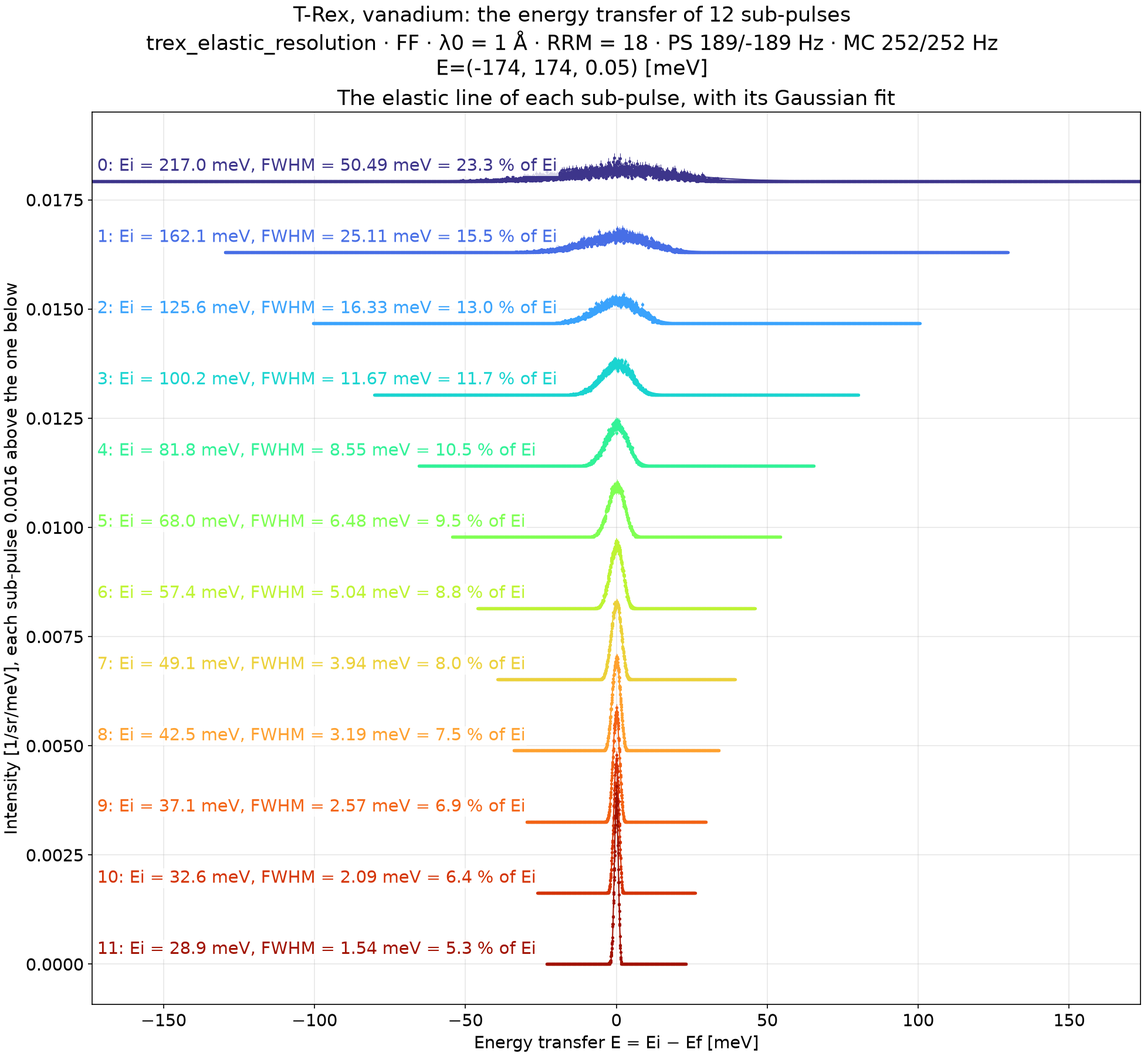
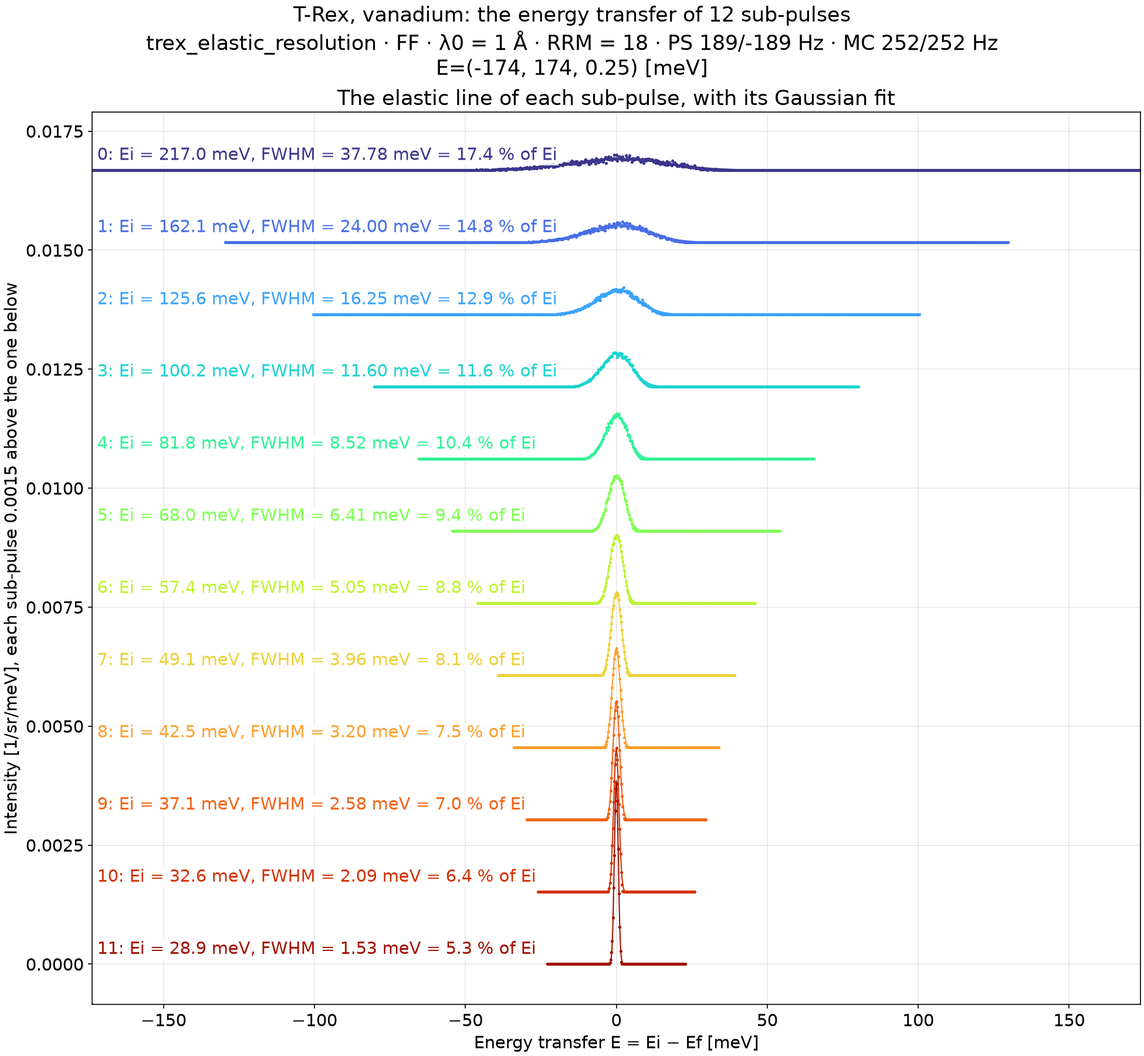
Rewrite the 1 Å elastic resolution page of T-Rex, and bin its spectra by 0.25 meV
On 0.05 meV bins, the sparse tails of the widest lines left many bins empty, which the fit
drops, so its Gaussians came out too wide: 50.5 meV in FF and 61.5 meV in FR at 217 meV,
against 37.8 and 35.8 meV on 0.25 meV bins. The page has the 12 sub-pulses at 1 Å in the four
modes, the four weaker sub-pulses the reduction leaves out, the white stripe the coverage leaves
at 90°, and the centers below Ei at the highest Ei. The 3 Å page compares with the new numbers.

diff --git a/src/mcdgs/diagnostics/trex/elastic_resolution_incoherent_short.py b/src/mcdgs/diagnostics/trex/elastic_resolution_incoherent_short.py
@@ -32,7 +32,10 @@ The reduction is that of :mod:`.diagnostics.trex.sample_runs`, as for diffractio
    sub-pulse, gives them their energy transfer, and divides each by the solid angle of its pixel
    and by the flux of its sub-pulse.
 4. :func:`.energy_spectra` sums them into a histogram of the energy transfer of each sub-pulse,
-   averaged over the solid angle of the pixels: per incident neutron, per steradian and per meV.
+   averaged over the solid angle of the pixels: per incident neutron, per steradian and per meV,
+   in bins of ``ENERGY_STEP``. The lines at 1 Å are 0.9 to 38 meV wide: on finer bins, the tails
+   of the widest are so sparse that the bins left empty, which the fit drops, widen its
+   Gaussian.
 
 :func:`.fit_elastic_lines` fits a Gaussian to the elastic line of each sub-pulse, against the
 final energy Ef, and gives its FWHM, ``FWHM_PER_SIGMA`` times its standard deviation σ.
@@ -86,6 +89,7 @@ from mcdgs.samples import vanadium
 
 NAME = "trex_elastic_resolution_incoherent_short"
 LAMBDA0 = 1.0  # Å, the central wavelength
+ENERGY_STEP = 0.25  # meV, the bin width in E of the spectra and maps: the lines are 0.9 to 38 meV
 MIN_TWO_THETA = 5.0  # deg: the pixels closer to the beam see the direct beam past the beamstop
 MODES: tuple[Mode, ...] = ("FF", "FR", "RF", "RR")  # coarse to fine; FF, first, is the reference
 # C0 to C3 from the finest resolution to the coarsest
@@ -252,8 +256,8 @@ def reduce_runs(
     events = normalized_events(binned, pulses, pixels)
     return Reduction(
         pulses,
-        energy_spectra(events, pulses, pixels.sum()),
-        q_e_maps(events, pulses, two_theta(binned), pixels),
+        energy_spectra(events, pulses, pixels.sum(), step=ENERGY_STEP),
+        q_e_maps(events, pulses, two_theta(binned), pixels, energy_step=ENERGY_STEP),
     )
 
 

diff --git a/docs/instruments/trex/elastic-resolution-incoherent-short.md b/docs/instruments/trex/elastic-resolution-incoherent-short.md
@@ -5,8 +5,8 @@
 puts a vanadium cylinder on `sample_pos` and reduces every neutron that reaches the banana
 detector to its energy transfer E = Ei − Ef. Vanadium scatters incoherently and elastically, so
 every neutron it scatters has E = 0. The width of the line it gives is the energy resolution of
-T-Rex, one value for each of the 15 sub-pulses. Anything away from the line would come from the
-instrument or the reduction, not from the sample.
+T-Rex, one value for each of the 12 sub-pulses at `lambda0` = 1 Å. Anything away from the line
+would come from the instrument or the reduction, not from the sample.
 [Elastic resolution (long wavelength)](elastic-resolution-incoherent-long.md) does the same at
 `lambda0` = 3 Å, with the bender in.
 
@@ -17,14 +17,16 @@ incident energies of [Incident energy](incident-energy.md) and the
 ## The setup
 
 `TRexElasticResolution` is `TRex` with the vanadium of `vanadium` on `sample_pos`, the beamstop
-and the banana detector. Its control parameters are the defaults, `lambda0` = 2 Å and
-`rrm` = 18, in each of the four modes of the choppers: `"FF"`, the wide slits of the
+and the banana detector. Its control parameters are `lambda0` = 1 Å and the defaults otherwise:
+`rrm` = 18, the bender out, the pulse-shaping choppers at 189 Hz and the monochromatic choppers
+at 252 Hz. It runs in each of the four modes of the choppers: `"FF"`, the wide slits of the
 pulse-shaping and monochromatic choppers, for high flux, `"RR"`, the narrow ones, for high
 resolution, and between them `"RF"`, the narrow slits of the pulse-shaping choppers with the
 wide ones of the monochromatic choppers, and `"FR"`, the other way around. All four modes have
-the same 15 sub-pulses. The choppers turn, so the beam on the sample is a train of sub-pulses. This is
-not the white beam of the `solid_angles` diagnostic, where every chopper is parked open. It has
-the [masked source](masked-source.md).
+the same 12 sub-pulses, from 0.61 to 1.68 Å, with Ei from 217 to 28.9 meV. The choppers turn, so
+the beam on the sample is a train of sub-pulses. This is not the white beam of the
+`solid_angles` diagnostic, where every chopper is parked open. It has the
+[masked source](masked-source.md).
 
 | | |
 | - | - |
@@ -51,26 +53,29 @@ As on [Diffraction](diffraction.md#two-runs-split-at-the-sample), `simulate` run
 each mode in two parts, with `run_to_sample` and `run_from_sample` of
 [`Simulation`](../../how-to/run-a-simulation.md):
 
-1. **From the source to `sample_pos`**, with 1e9 rays: about a minute and a half on 18 cores.
+1. **From the source to `sample_pos`**, with 1e9 rays: about 1.1 minutes on 18 cores.
    Its folder holds the pre-sample and beamstop monitors and the beam at `sample_pos`.
-2. **From that beam through the vanadium to the detector**: under ten seconds. 4.09 million
-   neutrons reach the detector in FF, 1.04 million in RR.
+2. **From that beam through the vanadium to the detector**: about 5 seconds. 1.49 million
+   neutrons reach the detector in FF, 0.41 million in RR.
 
-RR lets a sixth of the neutrons of FF through, 4.3 × 10⁶ n/s at the pre-sample monitor against
-2.5 × 10⁷ n/s. `reduce_runs` and `analyze` read the runs of a mode again without McStas. The
+RR lets a sixth of the neutrons of FF through, 3.1 × 10⁶ n/s at the pre-sample monitor against
+1.8 × 10⁷ n/s. `reduce_runs` and `analyze` read the runs of a mode again without McStas. The
 figures below are of FF, except in [FF and RR](#ff-and-rr) and
 [All four modes](#all-four-modes).
 
 ## The reduction
 
-1. **The sub-pulses.** `subpulse_timing`, of `sample_runs`, finds the 15 sub-pulses at the
+1. **The sub-pulses.** `subpulse_timing`, of `sample_runs`, finds the 12 sub-pulses at the
    pre-sample and beamstop monitors, with the Ei of each and the time it reaches the sample, as on
-   [Incident energy](incident-energy.md#finding-the-sub-pulses).
+   [Incident energy](incident-energy.md#finding-the-sub-pulses). It keeps the patches of the
+   monitor with at least 2 % (`MIN_FRACTION`) of the intensity of the strongest. Four more get
+   through the choppers, at 0.21, 0.32, 0.42 and 0.52 Å, with under 1 % each: see
+   [Shorter sub-pulses](#shorter-sub-pulses).
 2. **The pixels.** `read_detector`, of `sample_runs`, reads the neutrons of the banana detector,
    by pixel.
    `scattered_pixels` leaves out the pixels within 5° of the beam ($2\theta$ < 5°). Those see the
-   direct beam that passes the beamstop: 2.69 million of the 4.09 million neutrons, on 405
-   pixels. The 38,760 pixels kept cover 2.11 sr.
+   direct beam that passes the beamstop: 457,391 of the 1,485,970 neutrons in FF. The 38,760
+   pixels kept cover 2.11 sr.
 3. **The windows.** `events_to_q_and_energy` gives each pixel and sub-pulse the arrival window
    of `arrival_window`, from −0.8 Ei to 0.8 Ei, as on
    [Neutrons on sample](neutrons-on-sample.md#arrival-windows-at-the-detector). A neutron inside
@@ -78,24 +83,43 @@ figures below are of FF, except in [FF and RR](#ff-and-rr) and
    energy transfer.
 4. **The normalization.** `normalized_events` divides each neutron by the solid angle of its
    pixel and by the intensity of its sub-pulse at the pre-sample monitor.
-5. **The spectra.** `energy_spectra` sums the neutrons of each sub-pulse into 0.05 meV bins of E.
-   It weights each one by the solid angle of its pixel and divides by the 2.11 sr of all the
-   pixels. It divides each neutron by its $k_f/k_i = \sqrt{E_f/E_i}$, with the Ei of its sub-pulse,
-   as `q_e_maps` does for S(Q, E): the cross section holds that factor on top of S(Q, E), below 1
-   where the neutron loses energy and above where it gains it. Across a line as wide as 7 % of Ei
-   it runs from 0.98 to 1.02, so left in, it would lift the gain side of the line, tilt its shape
-   and pull its center towards a higher Ef. The result is S(E) averaged over the detector, per
-   neutron at the pre-sample monitor, per steradian and per meV. Each neutron of weight $w$ counts
-   with the variance $w^2$, so a bin has the error $\sqrt{\sum w^2}$.
+5. **The spectra.** `energy_spectra` sums the neutrons of each sub-pulse into bins of E of
+   0.25 meV (`ENERGY_STEP`). It weights each one by the solid angle of its pixel and divides by
+   the 2.11 sr of all the pixels. It divides each neutron by its $k_f/k_i = \sqrt{E_f/E_i}$, with
+   the Ei of its sub-pulse, as `q_e_maps` does for S(Q, E): the cross section holds that factor on
+   top of S(Q, E), below 1 where the neutron loses energy and above where it gains it. Across a
+   line as wide as 17 % of Ei it runs from 0.96 to 1.04, so left in, it would lift the gain side
+   of the line, tilt its shape and pull its center towards a higher Ef. The result is S(E)
+   averaged over the detector, per neutron at the pre-sample monitor, per steradian and per meV.
+   Each neutron of weight $w$ counts with the variance $w^2$, so a bin has the error
+   $\sqrt{\sum w^2}$.
+
+**Why 0.25 meV bins.** The lines at 1 Å are 0.9 to 38 meV wide. On the 0.05 meV bins of the other
+elastic-resolution diagnostics, the tails of the widest lines are so sparse that many bins hold
+no neutron. The fit drops the empty bins, so in the tails it sees only the bins that happen to
+hold one, which lifts the tails and widens the Gaussian. On 0.05 meV bins, the FWHM of the
+highest sub-pulse came out at 50.5 meV in FF and 61.5 meV in FR. On 0.25 meV bins it is 37.8 and
+35.8 meV, and coarser bins change it little more: 36.9 and 34.3 meV on 0.5 meV bins. Below about
+100 meV the bins make no difference. The narrowest line, 0.95 meV in RR, still spans four bins.
+
+### Shorter sub-pulses
+
+Of the 1,028,579 neutrons on the pixels kept in FF, 52,481 fall outside every window. Of these,
+52,251 arrive before the window of the first sub-pulse opens, in groups 4 ms apart, at about
+23, 19, 15 and 11 ms: the four sub-pulses at 0.52, 0.42, 0.32 and 0.21 Å that `subpulse_timing`
+leaves out. At the pre-sample monitor, those at 0.32 to 0.52 Å bring 0.09 to 0.85 % of the
+intensity of the strongest sub-pulse, the one at 0.21 Å almost nothing. The masked source spends many rays on them, so they are many neutrons of
+small weight: 0.25 % of the intensity on the detector. They are left out of the spectra and the
+maps.
 
 ## S(Q, E)
 
-![S(Q, E) of each of the 15 sub-pulses, |Q| across and E up, from the highest Ei to the lowest, normalized by the coverage of each bin, colored where the detector reaches and white elsewhere](figures/elastic-resolution-incoherent-short/trex_elastic_resolution_incoherent_short_ff_sqe.png)
+![S(Q, E) of each of the 12 sub-pulses at 1 Å, |Q| across and E up, from the highest Ei to the lowest, normalized by the coverage of each bin, colored where the detector reaches and white elsewhere](figures/elastic-resolution-incoherent-short/trex_elastic_resolution_incoherent_short_ff_sqe.png)
 
-`q_e_maps` histograms the neutrons of each sub-pulse in |Q| and E, in bins of 0.05 meV and
-0.05 Å⁻¹. Every sub-pulse has the same bins, so every map spans the same range: E from −38 to
-38 meV, the arrival window of the highest Ei, and |Q| from 0 to 11 Å⁻¹, the largest the
-detector reaches. `plot_q_e_maps` draws the 15 maps from the highest Ei to the lowest, on shared
+`q_e_maps` histograms the neutrons of each sub-pulse in |Q| and E, in bins of 0.25 meV and
+0.05 Å⁻¹. Every sub-pulse has the same bins, so every map spans the same range: E from −174 to
+174 meV, the arrival window of the highest Ei, and |Q| from 0 to 23 Å⁻¹, the largest the
+detector reaches. `plot_q_e_maps` draws the 12 maps from the highest Ei to the lowest, on shared
 axes and one linear scale in turbo.
 
 **Normalized by the coverage of each bin.** A pixel at the scattering angle $2\theta$ sees every E of
@@ -113,47 +137,45 @@ sub-pulse cannot reach it, and it is white. A bin it reaches has the color of it
 bottom of the scale if it holds no neutron. So the colored area of each map is its coverage: E
 in its arrival window, −0.8 Ei to 0.8 Ei, and |Q| between those of the smallest and the largest
 $2\theta$ of the pixels, 5° and 143.7°, at that E. The lower the Ei, the smaller the part of the
-common range it covers: ±9 meV and |Q| below 5.2 Å⁻¹ at 11.4 meV.
+common range it covers: ±23 meV and |Q| below 8.3 Å⁻¹ at 28.9 meV.
 
 - **Only the elastic line.** Each map holds one band at E = 0, as wide as the resolution of its
   sub-pulse, which the spectra below measure, from the smallest |Q| to the largest the detector
   reaches. The rest of the coverage is dark, reached but empty: vanadium scatters nothing
   inelastically here, and the sample scatters only once.
-- **The line is flat in |Q|.** Vanadium scatters alike in every direction, and the
-  normalization takes out how much of the detector sees each |Q|. Before it, the band was twice
-  as bright at $2\theta$ below 36°, where the detector covers both sides of the beam, and grew toward
-  backscattering, where a bin of |Q| spans more of $2\theta$. Summed over E, the line of sub-pulse 0
-  stays between 0.0067 and 0.0073 per steradian from 0.5 to 8.5 Å⁻¹.
-- **What is left is absorption.** At the longest wavelengths the line rises toward high |Q|, by
-  about 20 % for sub-pulse 14. The 20 mm cylinder absorbs less of what it scatters backward than
-  of what it scatters forward, and more at long wavelengths, as absorption goes as the
-  wavelength.
+- **The line is nearly flat in |Q|.** Vanadium scatters alike in every direction, and the
+  normalization takes out how much of the detector sees each |Q|. Summed over E, the line of
+  sub-pulse 4, at `lambda0`, stays between 0.0074 and 0.0082 per steradian from 0.5 to 14 Å⁻¹;
+  that of sub-pulse 11 rises from 0.0059 to 0.0064 up to 8 Å⁻¹. The line of sub-pulse 0 is lower
+  below 2 Å⁻¹, 0.0066 against about 0.009 from 2 to 14 Å⁻¹; this has not been studied.
+- **A white stripe at $2\theta$ = 90°.** The three highest sub-pulses show a thin white line
+  across their maps, where |Q| = $\sqrt{k_i^2 + k_f^2}$. No pixel center lies between 89.94° and
+  90.51° of $2\theta$: next to 90° in the horizontal plane, the pixels of every height have nearly
+  the same $2\theta$, on one side of 90° or the other. The coverage takes each pixel as a point at
+  its center, so it leaves that band out. The detector itself covers it. The stripe fades with Ei,
+  and from 82 meV down it does not show.
 - **The scale** is shared by all the maps, from 0 to the 99.9th percentile of the bins with
-  neutrons. A bin on the edge of the coverage, with little of it, can stand far above the rest:
-  its few neutrons are divided by a small coverage. The narrow lines of the lowest Ei are the
-  brightest, their intensity spread over the fewest meV.
+  neutrons. The lines of the highest Ei are spread over the most bins, so few neutrons fall in
+  each, and they look speckled.
 
 ## The spectra
 
-![The intensity of each of the 15 sub-pulses against the energy transfer, stacked from the highest Ei at the top to the lowest at the bottom, each with its Gaussian fit](figures/elastic-resolution-incoherent-short/trex_elastic_resolution_incoherent_short_ff.png)
+![The intensity of each of the 12 sub-pulses at 1 Å against the energy transfer, stacked from the highest Ei at the top to the lowest at the bottom, each with its Gaussian fit](figures/elastic-resolution-incoherent-short/trex_elastic_resolution_incoherent_short_ff.png)
 
 The figure is linear and spans the whole energy coverage: each sub-pulse is drawn over its
 arrival window, −0.8 Ei to 0.8 Ei, empty bins included. Each bin is a point with its error, and
 each line is the Gaussian fitted to a sub-pulse, labeled with its Ei, its FWHM and the FWHM
-as a fraction of Ei. The sub-pulses are
-stacked from the highest Ei at the top to the lowest at the bottom, each lifted above the one
-below by 0.4 of the highest bin, so that each stands on its own baseline and the width of its
-window shows.
+as a fraction of Ei. The sub-pulses are stacked from the highest Ei at the top to the lowest at
+the bottom, each lifted above the one below by 0.4 of the highest bin, so that each stands on
+its own baseline and the width of its window shows.
 
-- **One line per sub-pulse, and nothing else.** No sub-pulse has neutrons beyond about
-  ±0.1 Ei, although its window spans ±0.8 Ei. Of the 1,403,295 neutrons on the pixels kept, only
-  491 fall outside every window. So no sub-pulse leaks into the window of the next: there is no
-  neutron [between the sub-pulses](neutrons-on-sample.md#between-the-sub-pulses).
-- **The width grows with Ei**, from 0.40 meV at 11.4 meV to 3.4 meV at 47.2 meV. As a fraction
-  of Ei it goes from 3.5 % at the longest wavelength to about 7 % at the shortest.
+- **One line per sub-pulse, and nothing else.** Each line lies well inside its window. The
+  widest, at 217 meV, reaches from −52 to 36 meV, within a window of ±174 meV.
+- **The width grows with Ei**, from 1.5 meV at 28.9 meV to 38 meV at 217 meV. As a fraction
+  of Ei it goes from 5.3 % at the longest wavelength to 17 % at the shortest.
 - **The shape.** The lines of the long wavelengths are narrow and peaked. Those of the short
-  wavelengths have a flat top and long tails.
-- **The intensity falls with the wavelength**, from 6.8 × 10⁻³ to 3.2 × 10⁻³ per steradian. The
+  wavelengths are broad, with a flat top.
+- **The intensity falls with the wavelength**, from 9.2 × 10⁻³ to 6.2 × 10⁻³ per steradian. The
   absorption of vanadium goes as the wavelength, so the cylinder absorbs more of the slow
   neutrons. The intensity is per neutron at the pre-sample monitor, so it also counts the
   neutrons that miss the 20 mm cylinder.
@@ -170,23 +192,26 @@ $$
 $\sigma$ is the standard deviation of the Gaussian, not its width: the full width at half maximum is
 2.355 times larger. The fit keeps only the core of each line, the bins of at least 20 % of the
 highest. The tails are not Gaussian, and a bin there holds few neutrons, some of tiny weight,
-whose variance is no error for the bin. Fitted over every bin, the tails pull the Gaussian
-narrow, with $\chi^2$ per degree of freedom of up to 540. Over the core it is 0.7 to 1.8.
+whose variance is no error for the bin. Over the core, $\chi^2$ per degree of freedom is 1.2 to
+4.3 in FF, the highest for the narrow lines of the lowest Ei, whose many neutrons show that they
+are not quite Gaussian.
 
 The intensity is that of the whole spectrum, summed over E. `analyze` prints the table:
 
 --8<-- "docs/instruments/trex/figures/elastic-resolution-incoherent-short/trex_elastic_resolution_incoherent_short_ff_lines.txt"
 
-Every center lies within 0.07 meV of its Ei, 0.01 to 0.07 meV above it. So the Ei of each
-sub-pulse and its time at the sample agree with what the detector sees.
+From 68 meV down, every center lies within 0.03 meV of its Ei. Above, the centers fall below
+Ei, the more the higher the Ei: by 0.1 meV at 100 meV, 0.3 meV at 126 meV and 1.0 meV, 0.45 %,
+at 217 meV. In FR the highest is 1.8 meV below its Ei, 0.84 %. Where this comes from has not been
+studied.
 
 ## FF and RR
 
-![The elastic line of each of the 15 sub-pulses in RR, stacked from the highest Ei at the top to the lowest at the bottom, each with its Gaussian fit](figures/elastic-resolution-incoherent-short/trex_elastic_resolution_incoherent_short_rr.png)
+![The elastic line of each of the 12 sub-pulses at 1 Å in RR, stacked from the highest Ei at the top to the lowest at the bottom, each with its Gaussian fit](figures/elastic-resolution-incoherent-short/trex_elastic_resolution_incoherent_short_rr.png)
 
 The same spectra and fits in RR. Every line is narrower than in FF, and the fits are as good,
-with $\chi^2$ per degree of freedom from 0.5 to 1.6. Each sub-pulse has nearly the Ei it has in FF: they
-differ by 0.6 % at most, 46.91 meV against 47.17 meV for the highest:
+with $\chi^2$ per degree of freedom from 0.2 to 4.0, most near 1. Each sub-pulse has nearly the
+Ei it has in FF: they differ by 0.5 % at most, 217.65 meV against 216.98 meV for the highest:
 
 --8<-- "docs/instruments/trex/figures/elastic-resolution-incoherent-short/trex_elastic_resolution_incoherent_short_rr_lines.txt"
 
@@ -196,7 +221,7 @@ The mixed modes take one pair of choppers at a time from FF to RR: RF narrows th
 pulse-shaping choppers only, FR those of the monochromatic choppers only. Their spectra, fits and
 maps are made as for FF and RR.
 
-![The FWHM of the elastic line of each sub-pulse against its Ei in FF, FR, RF and RR, with the analytic model as lines, as a fraction of Ei, the flux of each sub-pulse, and the FWHM and flux of FR, RF and RR over FF](figures/elastic-resolution-incoherent-short/trex_elastic_resolution_incoherent_short_modes.png)
+![The FWHM of the elastic line of each sub-pulse at 1 Å against its Ei in FF, FR, RF and RR, with the analytic model as lines, as a fraction of Ei, the flux of each sub-pulse, and the FWHM and flux of FR, RF and RR over FF](figures/elastic-resolution-incoherent-short/trex_elastic_resolution_incoherent_short_modes.png)
 
 `plot_resolutions` draws, against Ei, the FWHM of every mode, the FWHM as a fraction of Ei, the flux
 of each sub-pulse at the pre-sample monitor, and the FWHM, open circles, and the flux, open squares,
@@ -207,24 +232,25 @@ geometry alone. `resolution_table` gives the numbers side by side:
 
 --8<-- "docs/instruments/trex/figures/elastic-resolution-incoherent-short/trex_elastic_resolution_incoherent_short_modes.txt"
 
-- **RR is almost twice as fine.** Its lines are 0.54 to 0.63 times as wide as those of FF: from
-  0.25 meV at 11.4 meV to 2.0 meV at 46.9 meV, 2.2 % to 4.3 % of Ei, against 3.5 % to 7.4 % in
-  FF.
+- **RR is almost twice as fine.** Its lines are 0.52 to 0.62 times as wide as those of FF: from
+  0.95 meV at 29.0 meV to 21 meV at 218 meV, 3.3 % to 9.8 % of Ei, against 5.3 % to 17 % in FF.
 - **For a sixth of the flux.** Every sub-pulse keeps 0.15 to 0.18 of its flux in RR, about
-  the same share at every Ei: 2.8 × 10⁵ against 1.7 × 10⁶ n/s at 20.45 meV. The narrow slits of
-  the pulse-shaping and monochromatic choppers shorten each sub-pulse, which sets its time at the
-  sample, and its spread of Ei. So the lines narrow, and fewer neutrons pass.
+  the same share at every Ei: 2.9 × 10⁵ against 1.7 × 10⁶ n/s at 81.8 meV, the Ei of `lambda0`.
+  The narrow slits of the pulse-shaping and monochromatic choppers shorten each sub-pulse, which
+  sets its time at the sample, and its spread of Ei. So the lines narrow, and fewer neutrons pass.
 - **RF does more than FR, for less.** The narrow slits of the pulse-shaping choppers alone make
-  the lines 0.78 to 0.82 times as wide as in FF and keep 0.48 to 0.52 of the flux; those of the
-  monochromatic choppers alone make them 0.83 to 0.93 times as wide and keep only 0.32 to 0.35.
-  At 20.45 meV, RF has 0.85 meV with 8.6 × 10⁵ n/s, FR 0.95 meV with 5.7 × 10⁵ n/s. Only at the
-  lowest Ei, 11.36 meV, is FR the narrower, 0.85 against 0.90 of FF; at the highest, 47.17 meV,
-  the two are as wide.
+  the lines 0.78 to 0.88 times as wide as in FF and keep 0.45 to 0.50 of the flux; those of the
+  monochromatic choppers alone make them 0.83 to 0.95 times as wide and keep only 0.33 to 0.36.
+  At 81.8 meV, RF has 6.8 meV with 8.5 × 10⁵ n/s, FR 7.8 meV with 5.8 × 10⁵ n/s. Only at the
+  lowest Ei, 28.9 meV, is FR the narrower, 0.83 against 0.88 of FF.
 - **The narrow monochromatic slits cost more than their width.** They are 0.57 of the wide
   ones, 2.5° against 4.4°, as the narrow pulse-shaping slits are, 20° against 35°. RF keeps
   about that share of the flux, a half; FR keeps a third.
-- **The same trend against Ei.** In every mode FWHM / Ei grows with Ei. In FF it levels off
-  above 40 meV, 7.4 % at 40.7 meV and 7.2 % at 47.2 meV; in RR it still grows, to 4.3 %.
+- **FWHM / Ei grows with Ei in every mode**, to 17 % in FF and 9.8 % in RR at the highest Ei.
+- **The analytic model follows McStas.** From 37 to 217 meV it gives the width within 7 % in
+  every mode, most within 3 %. At the lowest Ei, 28.9 meV, it is 6 to 29 % wider than McStas.
+  That sub-pulse brings a quarter of the flux of the one before it, so the bandwidth choppers
+  most likely cut it, which the model leaves out; this has not been checked.
 
 ## Making the figures
 
@@ -235,12 +261,11 @@ pixi run python -c "from mcdgs.diagnostics.trex.elastic_resolution_incoherent_sh
 ```
 
 At its defaults, `main` runs both parts in all four modes, 1e9 rays from the masked source with
-seed 1 each, as for the figures here: about a minute and a half per mode. It prints the tables and
-saves the figures and the tables of each mode, and those that compare them, to
+seed 1 each, as for the figures here: about a minute per mode. It prints the tables and saves the
+figures and the tables of each mode, and those that compare them, to
 `mcdgs_workspace/results/trex_elastic_resolution_incoherent_short/`, or to the folder given as
-`out`.
-Running the module, as `pixi run docs-diagnostics` does, only reduces the runs again, without
-McStas:
+`out`. Running the module, as `pixi run docs-diagnostics` does, only reduces the runs again,
+without McStas:
 
 ```bash
 pixi run python -m mcdgs.diagnostics.trex.elastic_resolution_incoherent_short

diff --git a/docs/instruments/trex/elastic-resolution-incoherent-long.md b/docs/instruments/trex/elastic-resolution-incoherent-long.md
@@ -10,7 +10,7 @@ masked source simulates its band. With `bender_in`, the beam goes through the
 
 The beam on the sample is a train of 15 sub-pulses, from 2.32 to 3.68 Å, with Ei from 15.2 to
 6.0 meV. Their elastic lines are 0.16 to 0.62 meV wide in FF, 2.7 to 4.4 % of Ei, and 0.11 to
-0.37 meV in RR, 1.8 to 2.5 % of Ei. At 1 Å they are 5.3 to 23 % of Ei in FF and 3.2 to 15 % in
+0.37 meV in RR, 1.8 to 2.5 % of Ei. At 1 Å they are 5.3 to 17 % of Ei in FF and 3.3 to 9.8 % in
 RR. One setting of the reduction differs from 1 Å to follow such narrow lines. It is listed
 under [The reduction](#the-reduction).
 
@@ -52,11 +52,11 @@ outside every arrival window. One setting of `elastic_resolution_incoherent_long
 
 | | 1 Å | 3 Å | Why |
 | - | - | - | - |
-| Bins of E, spectra and S(Q, E) maps | 0.05 meV | 0.005 meV (`ENERGY_STEP`) | the lines are down to 0.11 meV wide |
+| Bins of E, spectra and S(Q, E) maps | 0.25 meV | 0.005 meV (`ENERGY_STEP`) | the lines are down to 0.11 meV wide |
 
-On 0.05 meV bins, the narrowest line of RR has only three bins above 20 % of its highest, the
-bins the fit keeps, too few to fit a Gaussian of three parameters with any degree of freedom
-left.
+On 0.05 meV bins, those of the other elastic-resolution diagnostics, the narrowest line of RR
+has only three bins above 20 % of its highest, the bins the fit keeps, too few to fit a Gaussian
+of three parameters with any degree of freedom left.
 
 ## S(Q, E)
 
